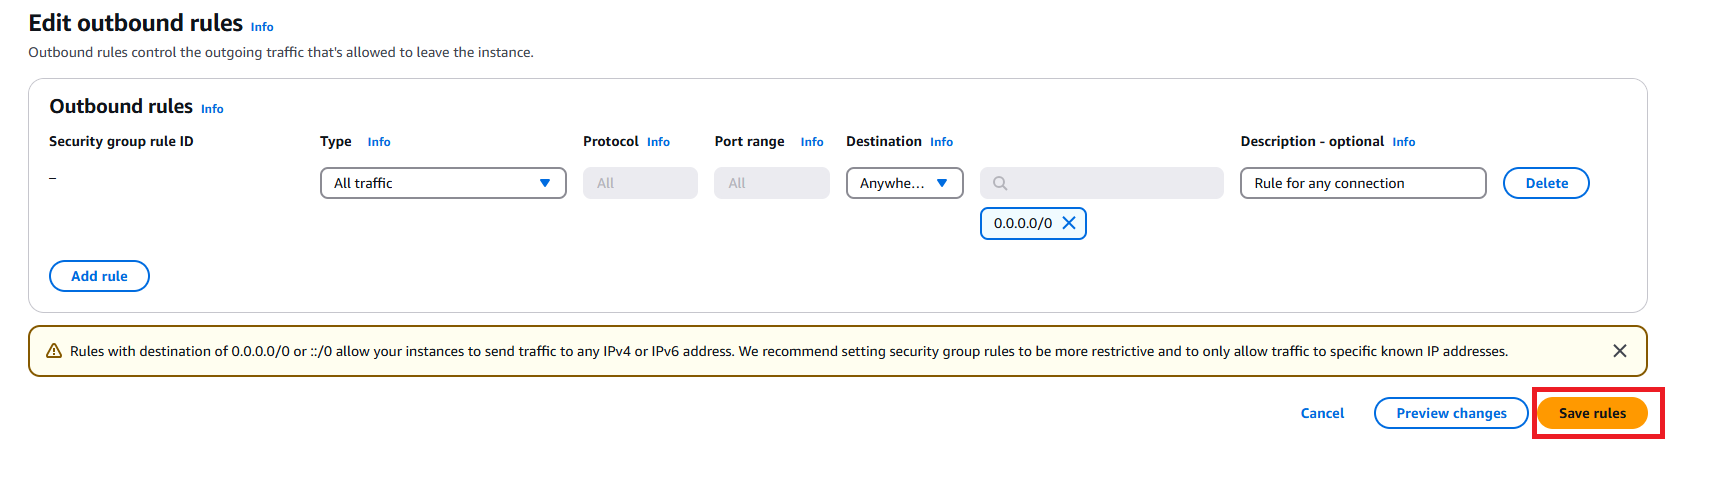
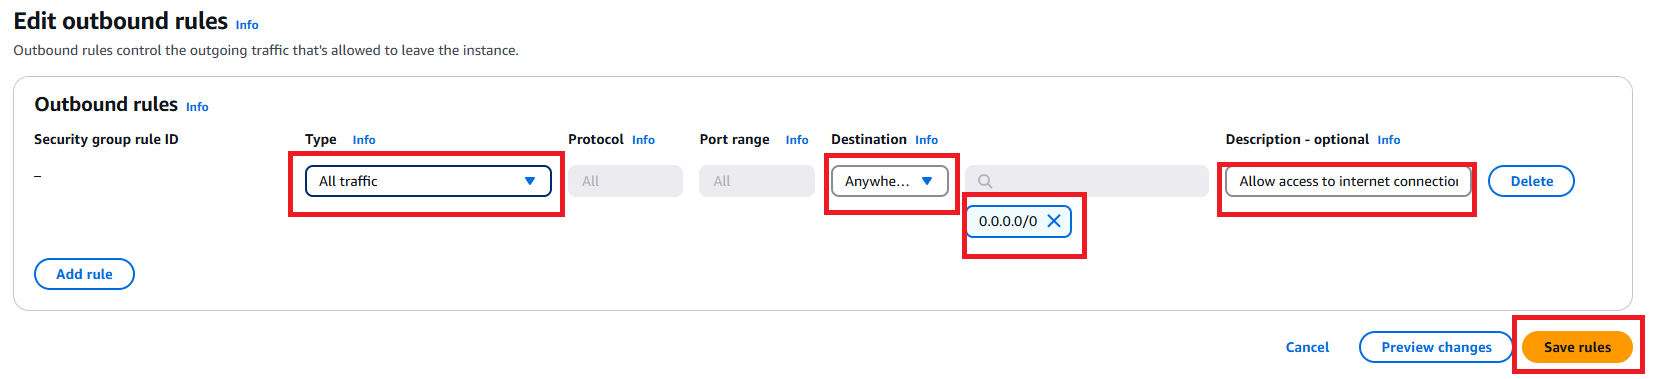
first commit

diff --git a/README.md b/README.md
@@ -50,7 +50,7 @@ docker-compose up -d
 
 <img src="./vpc/vpc2.png">
 
-2.3 Selecionar ***VPC and More***; habilitar Auto-generate e inserir o nome de sua VPC; Number of public subnets: 2 (quantidade de subnets públicas da VPC); Number of private subnets: 2 (quantidade de subnets privadas da VPC); selecionar Create VPC.
+2.3 Selecionar ***VPC and More***; habilitar Auto-generate e inserir o nome de sua VPC; Number of public subnets: 2 (quantidade de subnets públicas da VPC); Number of private subnets: 2 (quantidade de subnets privadas da VPC); selecionar ***In 1 AZ*** e ***Create VPC***.
 > As demais configurações não alteramos.
 
 <img src="./vpc/vpc3.png">
@@ -59,7 +59,7 @@ docker-compose up -d
 
 > O security group define o tráfego dos nossos recursos AWS (quem e quais conexões e portas são permitidas, similiar a um firewall).
 
-### 3. Criando o Security Group das instâncias EC2, e da instância RDS (MySQL) e do sistema de arquivos (EFS)
+### 3. Criando o Security Group das instâncias EC2, e da instância RDS (MySQL) e do sistema de arquivos (EFS), balanceador de carga (CLB)
 > O security group define o tráfego dos nossos recursos AWS (quem e quais conexões e portas são permitidas, similiar a um firewall).
 
 3.1 Procurar e selecionar ***EC2*** no console da AWS.
@@ -86,14 +86,14 @@ docker-compose up -d
 
 <img src="./sg/sg6.png">
 
-3.7 Selecionar: ***Inbound rules***; ***Edit Inbound Rules***.
+<!-- 3.7 Selecionar: ***Inbound rules***; ***Edit Inbound Rules***.
 
 <img src="./sg/sg7.png">
 
 3.8 Selecionar ***Add rule***, e inserir:  Type: SSH; Source: My IP; Description: a descrição da sua regra SSH.
 > Essa regra de entrada vai permitir o acesso (apenas para a nossa máquina) da instância EC2 Amazon Linux que criarmos pelo VSCode (usando uma par de chaves). 
 
-3.9 Selecionar ***Add rule***, e inserir: Type: Custom TCP; Port: 8080; Source: Anywhere-IPv4; Description: a descrição da sua regra HTTP.
+3.9 Selecionar ***Add rule***, e inserir: Type: HTTP; Port: 80; Source: Anywhere-IPv4; Description: a descrição da sua regra HTTP.
 > Essa regra de entrada vai permitir a conexão de qualquer máquina com a instância EC2 Amazon Linux que criarmos pelo VSCode (isso possibilitará o acesso de outras máquinas a página do Wordpress).
 
 3.10 Selecionar ***Save rules***.
@@ -107,18 +107,46 @@ docker-compose up -d
 3.12 Selecionar ***Add rule***, e inserir: Type: All traffic; Destination: Anywhere-IPv4; Description: a descrição da sua regra de saída.
 > Essa regra de saída vai permitir que a instância EC2 que criaremos realizar qualquer tipo de conexão com IPs da versão 4 (vai permitir o acesso de internet para a instância e o acesso com a instância RDS que criaremos (MySQL)).
 
+3.13 Selecionar ***Save rules***. -->
+
+<!-- <img src="./sg/sg10.png"> -->
+
+3.7 Selecionar ***Create security group***.
+> Criando o security group do MySQL (RDS).
+
+<img src="./sg/sg3.png">
+
+3.8 Informar o nome do seu Security Group em Security group name; inserir a descrição do seu Security Group em Description; selecionar a VPC que foi criada anteriormente.
+
+<img src="./sg/sg11.png">
+
+3.9 Selecionar ***Delete*** (Outbound Rules).
+
+<img src="./sg/sg5.png">
+
+3.10 Selecionar ***Create security group***.
+
+<img src="./sg/sg6.png">
+
+3.11 Selecionar: ***Inbound rules***; ***Edit Inbound Rules***.
+
+<img src="./sg/sg7.png">
+
+3.12 Selecionar ***Add rule***, e inserir: Type: MYSQL/Aurora; Source: Custom - selecionar o security group das intâncias EC2; Description: a descrição da sua regra MySQL.
+> Essa regra de entrada vai permitir o acesso das instâncias Wordpress com a instâncias RDS(banco de dados) que criaremos.
+
 3.13 Selecionar ***Save rules***.
 
-<img src="./sg/sg10.png">
+<img src="./sg/sg12.png">
 
 3.14 Selecionar ***Create security group***.
-> Criando o security group do MySQL (RDS).
+> Criando o security group do sistema de arquivos (EFS).
 
 <img src="./sg/sg3.png">
 
 3.15 Informar o nome do seu Security Group em Security group name; inserir a descrição do seu Security Group em Description; selecionar a VPC que foi criada anteriormente.
 
-<img src="./sg/sg11.png">
+<img src="./sg/sg13.png">
 
 3.16 Selecionar ***Delete*** (Outbound Rules).
 
@@ -128,25 +156,25 @@ docker-compose up -d
 
 <img src="./sg/sg6.png">
 
-3.18 Selecionar: ***Inbound rules***; ***Edit Inbound Rules***.
+3.17 Selecionar: ***Inbound rules***; ***Edit Inbound Rules***.
 
 <img src="./sg/sg7.png">
 
-3.19 Selecionar ***Add rule***, e inserir: Type: MYSQL/Aurora; Source: Custom - selecionar o security group das intâncias EC2; Description: a descrição da sua regra SSH.
-> Essa regra de entrada vai permitir o acesso das instâncias Wordpress com a instâncias RDS(banco de dados) que criaremos.
+3.19 Selecionar ***Add rule***, e inserir: Type: NFS; Source: Custom; Description: a descrição da sua regra NFS.
+> Essa regra de entrada vai permitir o acesso das instâncias EC2 com o sistema de arquivos (EFS). 
 
 3.20 Selecionar ***Save rules***.
 
-<img src="./sg/sg12.png">
+<img src="./sg/sg14.png">
 
 3.21 Selecionar ***Create security group***.
-> Criando o security group do sistema de arquivos (EFS).
+> Criando o security group do balanceador de carga (Classic Load Balancer).
 
 <img src="./sg/sg3.png">
 
 3.22 Informar o nome do seu Security Group em Security group name; inserir a descrição do seu Security Group em Description; selecionar a VPC que foi criada anteriormente.
 
-<img src="./sg/sg13.png">
+<img src="./sg/sg15.png"> 
 
 3.23 Selecionar ***Delete*** (Outbound Rules).
 
@@ -160,11 +188,55 @@ docker-compose up -d
 
 <img src="./sg/sg7.png">
 
-3.26 Selecionar ***Add rule***, e inserir: Type: NFS; Source: Custom; Description: a descrição da sua regra NFS.
-> Essa regra de entrada vai permitir o acesso das instâncias EC2 com o sistema de arquivos (EFS). 
+3.26 Selecionar ***Add rule***, e inserir:  Type: HTTP; Source: Anywhere ipv4; Description: a descrição da sua regra clb.
+> Essa regra de entrada vai permitir o acesso HTTP de qualquer máquina com o nosso balanceador de carga.
 
-<img src="./sg/sg14.png">
+3.27 Selecionar ***Save rules***.
 
+<img src="./sg/sg16.png">
+
+3.28 Selecionar: ***Outbound rules***; ***Edit Outbound Rules***.
+
+<img src="./sg/sg9.png">
+
+3.29 Selecionar ***Add rule***, e inserir: Type: HTTP; Destination: Custom - selecionar o security group das instâncias ec2; Description: a descrição da sua regra de saída.
+> Essa regra de saída vai permitir que o load balancer crie a conexão entre a rede externa com os servidores Wordpress.
+
+3.30 Selecionar ***Save rules***. -->
+
+<img src="./sg/sg17.png">
+
+3.31 Selecionar ***Security Groups***. 
+
+<img src="./sg/sg2.png">
+
+3.32 Selecionar security group das instâncias EC2.
+
+<img src="./sg/sg2.png">
+
+3.33 Selecionar: ***Inbound rules***; ***Edit Inbound Rules***.
+
+<img src="./sg/sg7.png">
+
+3.34 Selecionar ***Add rule***, e inserir:  Type: HTTP; Source: Custom - security group do load balancer; Description: a descrição da sua regra de entrada.
+> Essa regra de entrada vai permitir o acesso HTTP do load balancer com as instâncias Wordpress. 
+
+3.35 Selecionar ***Save rules***.
+
+<img src="./sg/sg8.png">mudar
+
+3.36 Selecionar: ***Outbound rules***; ***Edit Outbound Rules***.
+
+<img src="./sg/sg19.png">
+
+3.37 Selecionar ***Add rule***, e inserir: Type: All traffic; Destination: Anywhere-IPv4; Description: a descrição da sua regra de saída.
+> Essa regra de saída vai permitir que a instância EC2 que criaremos possa se conectar com a internet.
+
+3.38 Selecionar ***Save rules***.
+
+<img src="./sg/sg20.png">
+
+editar sgec2 wordpress
 ### 4. Criando a instância RDS
 > O Amazon Relational Database Service (Amazon RDS) é um serviço da Web que facilita a configuração, a operação e escalabilidade de um banco de dados relacional na Nuvem AWS.
 
@@ -347,7 +419,7 @@ docker-compose up -d
 
 7.10 Selecionar ***Launch instance***.
 
-<img src="./inst/ins11.png">
+<img src="./inst/inst11.png">
 
 ### 8. Conectando na instância
 > Para conectar em uma instância seu "status check" precisa ser "2/2 checks passed".
@@ -407,8 +479,10 @@ docker-compose up
 
 <img src="./access/access1.png">
 
-10.2 Digitar no navegador http://ip_da_instancia:8080
+10.2 Digitar no navegador http://ip_da_instancia:80
 
 <img src="./access/access2.png">
 
 (criar security group do rds e depois o rds, depois o efs e associar as subnets publicas (que estao as instancias) depois criar a instancia)
+
+(criar uma launch template, criar um auto scaling group, criar classic load balancer, criar metrica/monitoramento clooud watcch )
